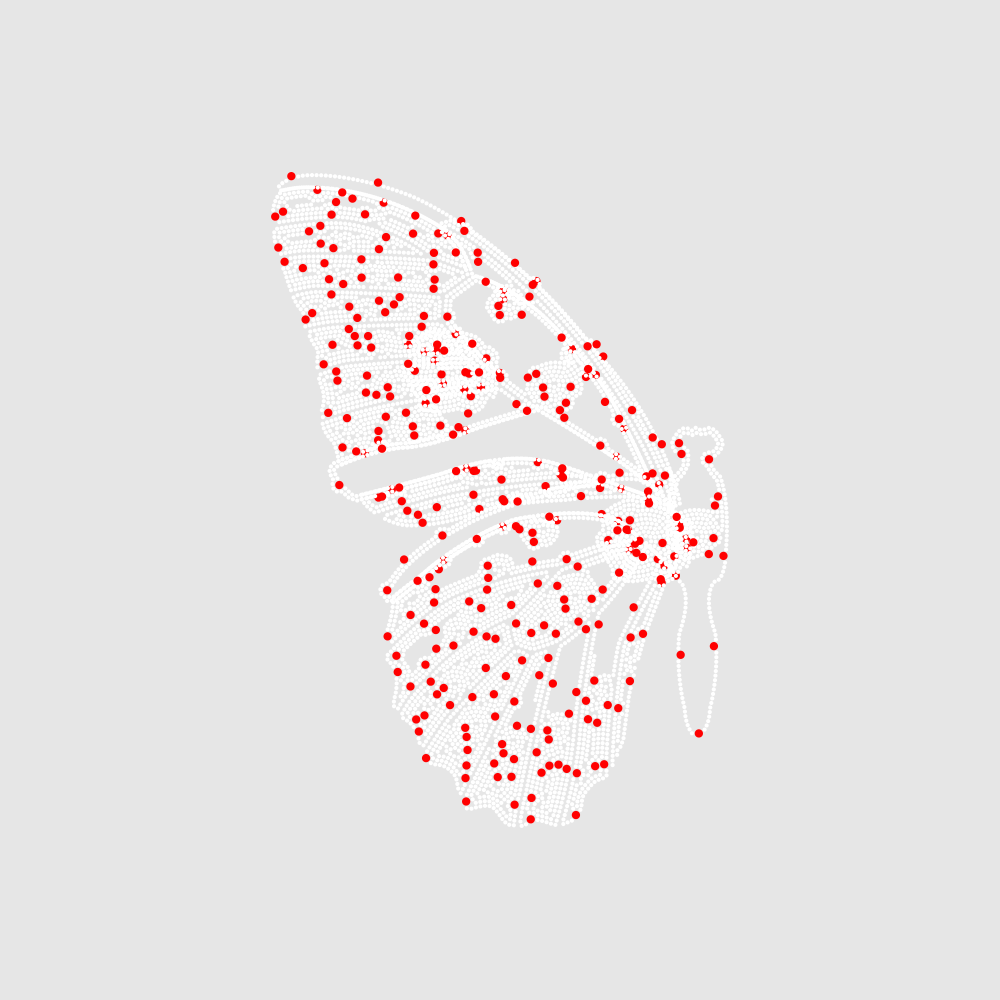
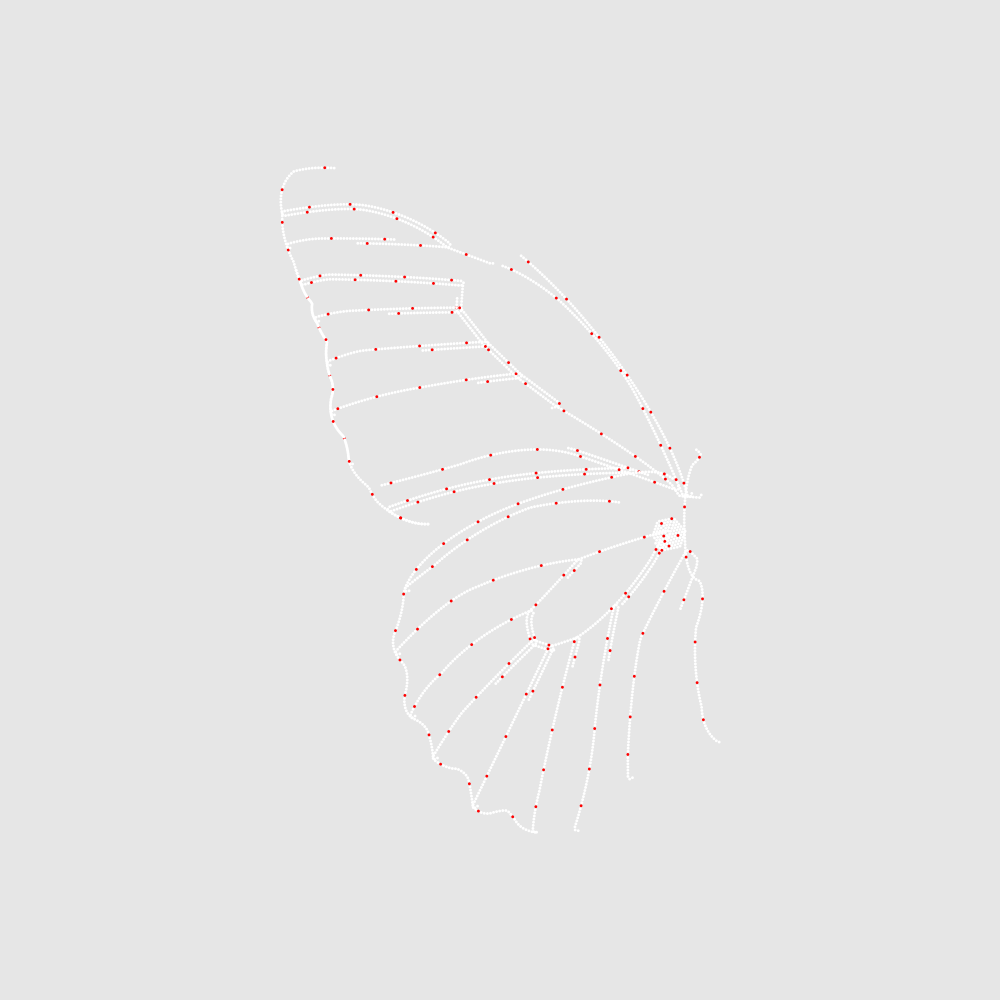
Add butterfly example

Changed region(s): [[0.279, 0.155, 0.744, 0.837], [0.682, 0.713, 0.713, 0.744], [0.682, 0.589, 0.713, 0.62]]

diff --git a/examples/main_skybutterfly.py b/examples/main_skybutterfly.py
@@ -16,16 +16,28 @@ symx      = sortlist[-1][0]
 nosym     = sortlist[-1][1]
 
 
+def lowercirclepair(circlestring):
+    miny = circlestring[0].y()
+    result = [circlestring[0],circlestring[1]]
+    for (c1,c2) in pairs(circlestring[1:]):
+        if c1.y() > miny:
+            miny = c1.y()
+            result = [c1,c2]
+    return result
+
+
 def drawcell(render,polygon,sym = True):
     puts("drawcell",polygon)
     drawings = []
+
+    polygon = polygon.clockwise()
 
     def myfdraw(render,pattern,lastindex,newcolor):
         newdrawing = (cscale( pattern.lastnode(), 0.9),newcolor)
         drawings.append(newdrawing)
         canvas.draw( newdrawing[0], newdrawing[1] )
 
-    rootnodes = circle2nodepair(Circle(polygon.middle(),2.0))
+    # rootnodes = circle2nodepair(Circle(polygon.middle(),2.0))
 
     rpattern = [item for i in range(10,100) for item in [2.0] * i + [2.0]]
     cpattern = [item for i in range(10,100) for item in [Color.white()] * i + [Color.red()]]
@@ -33,8 +45,11 @@ def drawcell(render,polygon,sym = True):
     baopattern = BaoPattern().sidepattern([1.0]).radiuspattern(rpattern).colorpattern(cpattern)
 
     # render.drawcircles(rootnodes,Color.green())
+    boundaries = [Circle(p,1.0) for p in polygon.lengthsamples(1.0)]
+    rootnodes  = lowercirclepair(boundaries)
 
-    result = CirclePackingBaoSwitch(rootnodes,baopattern,myfdraw).iter(render,rootnodes  + [CircleNode().coords(Circle(p,1.0).coords()) for p in polygon.lengthsamples(1.0)],300)
+
+    result = CirclePackingBaoSwitch(rootnodes,baopattern,myfdraw).iter(render,rootnodes  + boundaries,100)
 
 
 for silhouette in silhouettes:
